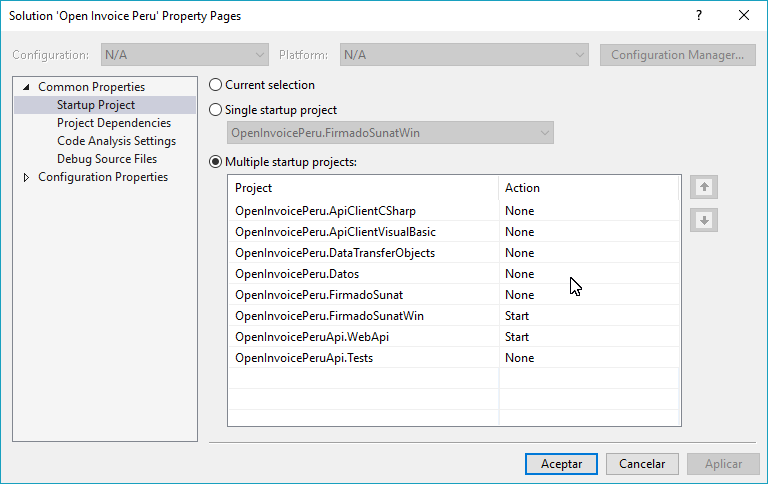
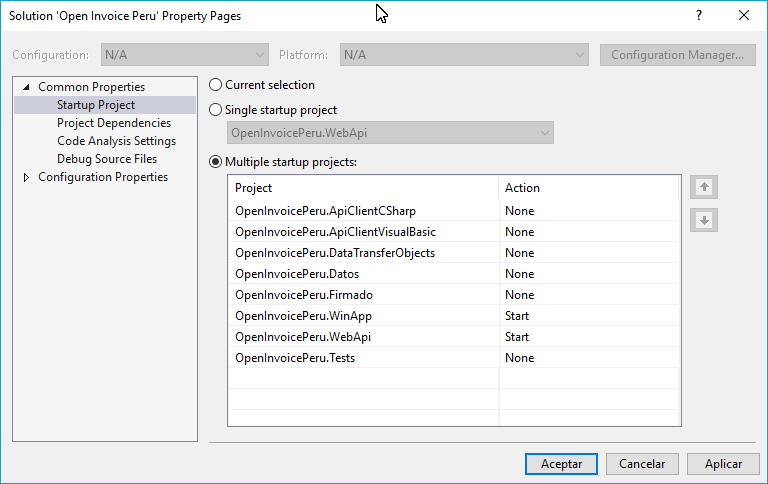
Configuracion de Swagger

Changed region(s): [[0.4062, 0.5888, 0.5625, 0.7748], [0.4062, 0.2479, 0.5625, 0.3099], [0.9375, 0.9298, 0.9688, 0.9917]]

diff --git a/OpenInvoicePeru/OpenInvoicePeru.WebApi/App_Start/SwaggerConfig.cs b/OpenInvoicePeru/OpenInvoicePeru.WebApi/App_Start/SwaggerConfig.cs
@@ -1,0 +1,246 @@
+using System.Web.Http;
+using WebActivatorEx;
+using OpenInvoicePeru.WebApi;
+using Swashbuckle.Application;
+
+[assembly: PreApplicationStartMethod(typeof(SwaggerConfig), "Register")]
+
+namespace OpenInvoicePeru.WebApi
+{
+	public class SwaggerConfig
+	{
+		public static void Register()
+		{
+			var thisAssembly = typeof(SwaggerConfig).Assembly;
+
+			GlobalConfiguration.Configuration 
+				.EnableSwagger(c =>
+					{
+						// By default, the service root url is inferred from the request used to access the docs.
+						// However, there may be situations (e.g. proxy and load-balanced environments) where this does not
+						// resolve correctly. You can workaround this by providing your own code to determine the root URL.
+						//
+						//c.RootUrl(req => GetRootUrlFromAppConfig());
+
+						// If schemes are not explicitly provided in a Swagger 2.0 document, then the scheme used to access
+						// the docs is taken as the default. If your API supports multiple schemes and you want to be explicit
+						// about them, you can use the "Schemes" option as shown below.
+						//
+						//c.Schemes(new[] { "http", "https" });
+
+						// Use "SingleApiVersion" to describe a single version API. Swagger 2.0 includes an "Info" object to
+						// hold additional metadata for an API. Version and title are required but you can also provide
+						// additional fields by chaining methods off SingleApiVersion.
+						//
+						c.SingleApiVersion("v1", "OpenInvoicePeru.WebApi");
+
+						// If your API has multiple versions, use "MultipleApiVersions" instead of "SingleApiVersion".
+						// In this case, you must provide a lambda that tells Swashbuckle which actions should be
+						// included in the docs for a given API version. Like "SingleApiVersion", each call to "Version"
+						// returns an "Info" builder so you can provide additional metadata per API version.
+						//
+						//c.MultipleApiVersions(
+						//    (apiDesc, targetApiVersion) => ResolveVersionSupportByRouteConstraint(apiDesc, targetApiVersion),
+						//    (vc) =>
+						//    {
+						//        vc.Version("v2", "Swashbuckle Dummy API V2");
+						//        vc.Version("v1", "Swashbuckle Dummy API V1");
+						//    });
+
+						// You can use "BasicAuth", "ApiKey" or "OAuth2" options to describe security schemes for the API.
+						// See https://github.com/swagger-api/swagger-spec/blob/master/versions/2.0.md for more details.
+						// NOTE: These only define the schemes and need to be coupled with a corresponding "security" property
+						// at the document or operation level to indicate which schemes are required for an operation. To do this,
+						// you'll need to implement a custom IDocumentFilter and/or IOperationFilter to set these properties
+						// according to your specific authorization implementation
+						//
+						//c.BasicAuth("basic")
+						//    .Description("Basic HTTP Authentication");
+						//
+						// NOTE: You must also configure 'EnableApiKeySupport' below in the SwaggerUI section
+						//c.ApiKey("apiKey")
+						//    .Description("API Key Authentication")
+						//    .Name("apiKey")
+						//    .In("header");
+						//
+						//c.OAuth2("oauth2")
+						//    .Description("OAuth2 Implicit Grant")
+						//    .Flow("implicit")
+						//    .AuthorizationUrl("http://petstore.swagger.wordnik.com/api/oauth/dialog")
+						//    //.TokenUrl("https://tempuri.org/token")
+						//    .Scopes(scopes =>
+						//    {
+						//        scopes.Add("read", "Read access to protected resources");
+						//        scopes.Add("write", "Write access to protected resources");
+						//    });
+
+						// Set this flag to omit descriptions for any actions decorated with the Obsolete attribute
+						//c.IgnoreObsoleteActions();
+
+						// Each operation be assigned one or more tags which are then used by consumers for various reasons.
+						// For example, the swagger-ui groups operations according to the first tag of each operation.
+						// By default, this will be controller name but you can use the "GroupActionsBy" option to
+						// override with any value.
+						//
+						//c.GroupActionsBy(apiDesc => apiDesc.HttpMethod.ToString());
+
+						// You can also specify a custom sort order for groups (as defined by "GroupActionsBy") to dictate
+						// the order in which operations are listed. For example, if the default grouping is in place
+						// (controller name) and you specify a descending alphabetic sort order, then actions from a
+						// ProductsController will be listed before those from a CustomersController. This is typically
+						// used to customize the order of groupings in the swagger-ui.
+						//
+						//c.OrderActionGroupsBy(new DescendingAlphabeticComparer());
+
+						// If you annotate Controllers and API Types with
+						// Xml comments (http://msdn.microsoft.com/en-us/library/b2s063f7(v=vs.110).aspx), you can incorporate
+						// those comments into the generated docs and UI. You can enable this by providing the path to one or
+						// more Xml comment files.
+						//
+						//c.IncludeXmlComments(GetXmlCommentsPath());
+
+						// Swashbuckle makes a best attempt at generating Swagger compliant JSON schemas for the various types
+						// exposed in your API. However, there may be occasions when more control of the output is needed.
+						// This is supported through the "MapType" and "SchemaFilter" options:
+						//
+						// Use the "MapType" option to override the Schema generation for a specific type.
+						// It should be noted that the resulting Schema will be placed "inline" for any applicable Operations.
+						// While Swagger 2.0 supports inline definitions for "all" Schema types, the swagger-ui tool does not.
+						// It expects "complex" Schemas to be defined separately and referenced. For this reason, you should only
+						// use the "MapType" option when the resulting Schema is a primitive or array type. If you need to alter a
+						// complex Schema, use a Schema filter.
+						//
+						//c.MapType<ProductType>(() => new Schema { type = "integer", format = "int32" });
+
+						// If you want to post-modify "complex" Schemas once they've been generated, across the board or for a
+						// specific type, you can wire up one or more Schema filters.
+						//
+						//c.SchemaFilter<ApplySchemaVendorExtensions>();
+
+						// In a Swagger 2.0 document, complex types are typically declared globally and referenced by unique
+						// Schema Id. By default, Swashbuckle does NOT use the full type name in Schema Ids. In most cases, this
+						// works well because it prevents the "implementation detail" of type namespaces from leaking into your
+						// Swagger docs and UI. However, if you have multiple types in your API with the same class name, you'll
+						// need to opt out of this behavior to avoid Schema Id conflicts.
+						//
+						//c.UseFullTypeNameInSchemaIds();
+
+						// Alternatively, you can provide your own custom strategy for inferring SchemaId's for
+						// describing "complex" types in your API.
+						//  
+						//c.SchemaId(t => t.FullName.Contains('`') ? t.FullName.Substring(0, t.FullName.IndexOf('`')) : t.FullName);
+
+						// Set this flag to omit schema property descriptions for any type properties decorated with the
+						// Obsolete attribute 
+						//c.IgnoreObsoleteProperties();
+
+						// In accordance with the built in JsonSerializer, Swashbuckle will, by default, describe enums as integers.
+						// You can change the serializer behavior by configuring the StringToEnumConverter globally or for a given
+						// enum type. Swashbuckle will honor this change out-of-the-box. However, if you use a different
+						// approach to serialize enums as strings, you can also force Swashbuckle to describe them as strings.
+						// 
+						//c.DescribeAllEnumsAsStrings();
+
+						// Similar to Schema filters, Swashbuckle also supports Operation and Document filters:
+						//
+						// Post-modify Operation descriptions once they've been generated by wiring up one or more
+						// Operation filters.
+						//
+						//c.OperationFilter<AddDefaultResponse>();
+						//
+						// If you've defined an OAuth2 flow as described above, you could use a custom filter
+						// to inspect some attribute on each action and infer which (if any) OAuth2 scopes are required
+						// to execute the operation
+						//
+						//c.OperationFilter<AssignOAuth2SecurityRequirements>();
+
+						// Post-modify the entire Swagger document by wiring up one or more Document filters.
+						// This gives full control to modify the final SwaggerDocument. You should have a good understanding of
+						// the Swagger 2.0 spec. - https://github.com/swagger-api/swagger-spec/blob/master/versions/2.0.md
+						// before using this option.
+						//
+						//c.DocumentFilter<ApplyDocumentVendorExtensions>();
+
+						// In contrast to WebApi, Swagger 2.0 does not include the query string component when mapping a URL
+						// to an action. As a result, Swashbuckle will raise an exception if it encounters multiple actions
+						// with the same path (sans query string) and HTTP method. You can workaround this by providing a
+						// custom strategy to pick a winner or merge the descriptions for the purposes of the Swagger docs 
+						//
+						//c.ResolveConflictingActions(apiDescriptions => apiDescriptions.First());
+
+						// Wrap the default SwaggerGenerator with additional behavior (e.g. caching) or provide an
+						// alternative implementation for ISwaggerProvider with the CustomProvider option.
+						//
+						//c.CustomProvider((defaultProvider) => new CachingSwaggerProvider(defaultProvider));
+					})
+				.EnableSwaggerUi(c =>
+					{
+						// Use the "InjectStylesheet" option to enrich the UI with one or more additional CSS stylesheets.
+						// The file must be included in your project as an "Embedded Resource", and then the resource's
+						// "Logical Name" is passed to the method as shown below.
+						//
+						//c.InjectStylesheet(containingAssembly, "Swashbuckle.Dummy.SwaggerExtensions.testStyles1.css");
+
+						// Use the "InjectJavaScript" option to invoke one or more custom JavaScripts after the swagger-ui
+						// has loaded. The file must be included in your project as an "Embedded Resource", and then the resource's
+						// "Logical Name" is passed to the method as shown above.
+						//
+						//c.InjectJavaScript(thisAssembly, "Swashbuckle.Dummy.SwaggerExtensions.testScript1.js");
+
+						// The swagger-ui renders boolean data types as a dropdown. By default, it provides "true" and "false"
+						// strings as the possible choices. You can use this option to change these to something else,
+						// for example 0 and 1.
+						//
+						//c.BooleanValues(new[] { "0", "1" });
+
+						// By default, swagger-ui will validate specs against swagger.io's online validator and display the result
+						// in a badge at the bottom of the page. Use these options to set a different validator URL or to disable the
+						// feature entirely.
+						//c.SetValidatorUrl("http://localhost/validator");
+						//c.DisableValidator();
+
+						// Use this option to control how the Operation listing is displayed.
+						// It can be set to "None" (default), "List" (shows operations for each resource),
+						// or "Full" (fully expanded: shows operations and their details).
+						//
+						//c.DocExpansion(DocExpansion.List);
+
+						// Specify which HTTP operations will have the 'Try it out!' option. An empty paramter list disables
+						// it for all operations.
+						//
+						//c.SupportedSubmitMethods("GET", "HEAD");
+
+						// Use the CustomAsset option to provide your own version of assets used in the swagger-ui.
+						// It's typically used to instruct Swashbuckle to return your version instead of the default
+						// when a request is made for "index.html". As with all custom content, the file must be included
+						// in your project as an "Embedded Resource", and then the resource's "Logical Name" is passed to
+						// the method as shown below.
+						//
+						//c.CustomAsset("index", containingAssembly, "YourWebApiProject.SwaggerExtensions.index.html");
+
+						// If your API has multiple versions and you've applied the MultipleApiVersions setting
+						// as described above, you can also enable a select box in the swagger-ui, that displays
+						// a discovery URL for each version. This provides a convenient way for users to browse documentation
+						// for different API versions.
+						//
+						//c.EnableDiscoveryUrlSelector();
+
+						// If your API supports the OAuth2 Implicit flow, and you've described it correctly, according to
+						// the Swagger 2.0 specification, you can enable UI support as shown below.
+						//
+						//c.EnableOAuth2Support(
+						//    clientId: "test-client-id",
+						//    clientSecret: null,
+						//    realm: "test-realm",
+						//    appName: "Swagger UI"
+						//    //additionalQueryStringParams: new Dictionary<string, string>() { { "foo", "bar" } }
+						//);
+
+						// If your API supports ApiKey, you can override the default values.
+						// "apiKeyIn" can either be "query" or "header"                                                
+						//
+						//c.EnableApiKeySupport("apiKey", "header");
+					});
+		}
+	}
+}

diff --git a/README.md b/README.md
@@ -31,7 +31,7 @@ Puedes usar la versión Professional o Enterprise si lo deseas.
 
 Para poder ejecutar correctamente el proyecto debes iniciar la depuración de los siguientes proyectos al [mismo tiempo](https://msdn.microsoft.com/es-es/library/ms165413.aspx):
 
-* OpenInvoicePeru.FirmadoSunatWin (Proyecto Windows)
+* OpenInvoicePeru.WinApp (Proyecto Windows)
 * OpenInvoicePeru.WebApi (API REST)
 
 Si quieres colaborar con tu granito de arena puedes hacer un Fork.
